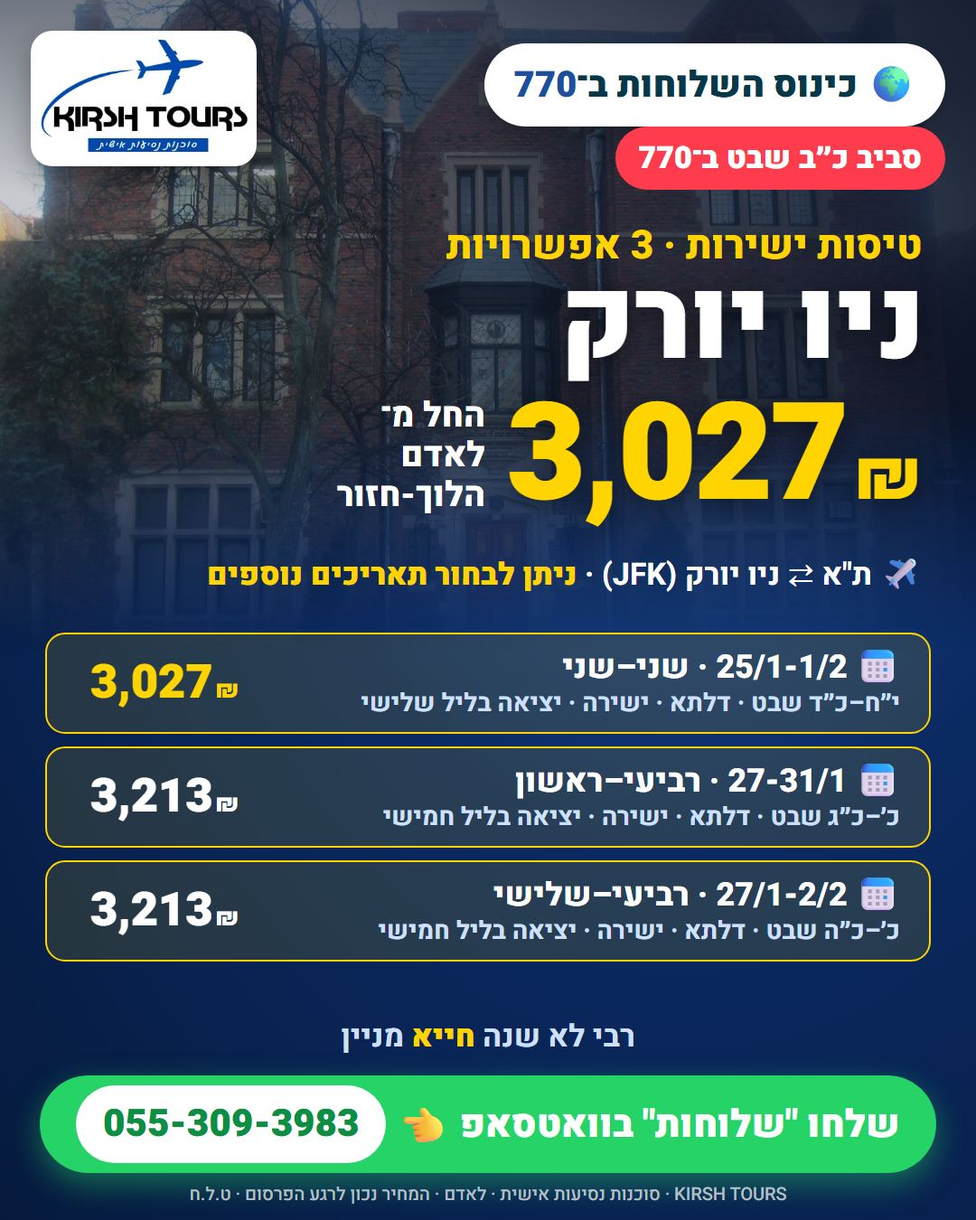
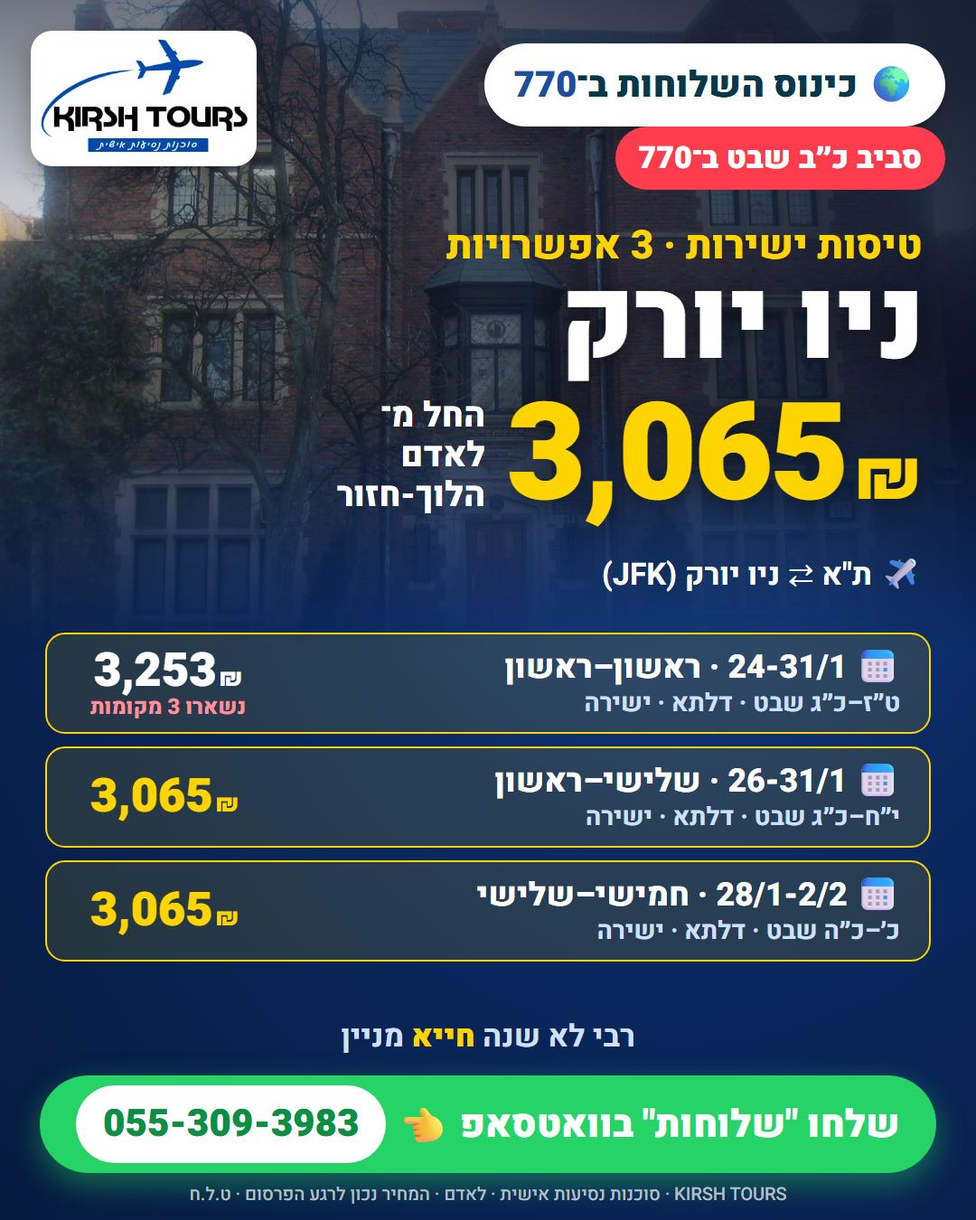
דילים 2026-11-26

diff --git a/770/kinus-shluchos/index.html b/770/kinus-shluchos/index.html
@@ -4,17 +4,17 @@
 <meta charset="utf-8">
 <meta name="viewport" content="width=device-width, initial-scale=1">
 <title>כינוס השלוחות ב-770: טיסה ישירה לניו יורק החל מ-3,027 ₪ | Kirsh Tours</title>
-<meta name="description" content="טיסות לניו יורק לכינוס השלוחות ב-770: 25/1-1/2 דלתא 3,027 ₪, 25/1-1/2 ישראייר 3,630 ₪, 26-31/1 דלתא 3,027 ₪, 26/1-2/2 דלתא 3,027 ₪, 26-30/1 אל על 3,627 ₪, 26/1-2/2 אל על 3,826 ₪, 27/1-1/2 יונייטד 3,054 ₪, 27-31/1 דלתא 3,213 ₪, 27/1-2/2 דלתא 3,213 ₪, 27/1-1/2 ישראייר 3,584 ₪, 27-31/1 ישראייר 3,630 ₪, 28/1-1/2 דלתא 3,027 ₪, 28/1-1/2 ישראייר 3,584 ₪, 28/1-1/2 אל על 3,737 ₪. לאדם הלוך-חזור, עם ליווי אישי.">
+<meta name="description" content="טיסות לניו יורק לכינוס השלוחות ב-770: 24-31/1 דלתא 3,253 ₪, 25/1-1/2 דלתא 3,027 ₪, 25/1-1/2 ישראייר 3,630 ₪, 26/1-2/2 דלתא 3,027 ₪, 26-31/1 דלתא 3,065 ₪, 26-30/1 אל על 3,627 ₪, 26/1-2/2 אל על 3,826 ₪, 27/1-1/2 יונייטד 3,054 ₪, 27-31/1 דלתא 3,213 ₪, 27/1-2/2 דלתא 3,213 ₪, 27/1-1/2 ישראייר 3,584 ₪, 27-31/1 ישראייר 3,630 ₪, 28/1-1/2 דלתא 3,027 ₪, 28/1-2/2 דלתא 3,065 ₪, 28/1-1/2 ישראייר 3,584 ₪, 28/1-1/2 אל על 3,737 ₪. לאדם הלוך-חזור, עם ליווי אישי.">
 <meta property="og:type" content="website">
 <meta property="og:locale" content="he_IL">
 <meta property="og:site_name" content="Kirsh Tours">
 <meta property="og:title" content="כינוס השלוחות ב-770: טיסה ישירה לניו יורק החל מ-3,027 ₪ | Kirsh Tours">
-<meta property="og:description" content="טיסות לניו יורק לכינוס השלוחות ב-770: 25/1-1/2 דלתא 3,027 ₪, 25/1-1/2 ישראייר 3,630 ₪, 26-31/1 דלתא 3,027 ₪, 26/1-2/2 דלתא 3,027 ₪, 26-30/1 אל על 3,627 ₪, 26/1-2/2 אל על 3,826 ₪, 27/1-1/2 יונייטד 3,054 ₪, 27-31/1 דלתא 3,213 ₪, 27/1-2/2 דלתא 3,213 ₪, 27/1-1/2 ישראייר 3,584 ₪, 27-31/1 ישראייר 3,630 ₪, 28/1-1/2 דלתא 3,027 ₪, 28/1-1/2 ישראייר 3,584 ₪, 28/1-1/2 אל על 3,737 ₪. לאדם הלוך-חזור, עם ליווי אישי.">
+<meta property="og:description" content="טיסות לניו יורק לכינוס השלוחות ב-770: 24-31/1 דלתא 3,253 ₪, 25/1-1/2 דלתא 3,027 ₪, 25/1-1/2 ישראייר 3,630 ₪, 26/1-2/2 דלתא 3,027 ₪, 26-31/1 דלתא 3,065 ₪, 26-30/1 אל על 3,627 ₪, 26/1-2/2 אל על 3,826 ₪, 27/1-1/2 יונייטד 3,054 ₪, 27-31/1 דלתא 3,213 ₪, 27/1-2/2 דלתא 3,213 ₪, 27/1-1/2 ישראייר 3,584 ₪, 27-31/1 ישראייר 3,630 ₪, 28/1-1/2 דלתא 3,027 ₪, 28/1-2/2 דלתא 3,065 ₪, 28/1-1/2 ישראייר 3,584 ₪, 28/1-1/2 אל על 3,737 ₪. לאדם הלוך-חזור, עם ליווי אישי.">
 <meta property="og:url" content="https://kirshtours.co.il/770/kinus-shluchos/">
 <link rel="canonical" href="https://kirshtours.co.il/770/kinus-shluchos/">
 
 
-<meta property="og:image" content="https://kirshtours.co.il/770/img/og-kinus-shluchos.jpg?v=d4a11484"><meta property="og:image:width" content="1200"><meta property="og:image:height" content="630">
+<meta property="og:image" content="https://kirshtours.co.il/770/img/og-kinus-shluchos.jpg?v=647932dd"><meta property="og:image:width" content="1200"><meta property="og:image:height" content="630">
 <meta name="theme-color" content="#050f24">
 <link rel="icon" href="../../logo.jpg">
 <link rel="stylesheet" href="../../vendor/fonts.css">
@@ -36,7 +36,7 @@
   <a class="btn btn-line" href="https://wa.me/972553093983">דברו איתי</a>
 </div></header>
 <main id="main" tabindex="-1">
-<div data-exp="2026-12-08">
+<div data-exp="2026-12-10">
 <section class="p770-hero small">
   <div class="slides" aria-hidden="true"><img src="../../770/img/hero/1.jpg" srcset="../../770/img/hero/s-1.jpg 800w, ../../770/img/hero/1.jpg 1600w" sizes="100vw" alt="" class="on" fetchpriority="high"><img data-src="../../770/img/hero/2.jpg" data-srcset="../../770/img/hero/s-2.jpg 800w, ../../770/img/hero/2.jpg 1600w" sizes="100vw" alt=""><img data-src="../../770/img/hero/3.jpg" data-srcset="../../770/img/hero/s-3.jpg 800w, ../../770/img/hero/3.jpg 1600w" sizes="100vw" alt=""><img data-src="../../770/img/hero/4.jpg" data-srcset="../../770/img/hero/s-4.jpg 800w, ../../770/img/hero/4.jpg 1600w" sizes="100vw" alt=""><img data-src="../../770/img/hero/5.jpg" data-srcset="../../770/img/hero/s-5.jpg 800w, ../../770/img/hero/5.jpg 1600w" sizes="100vw" alt=""><img data-src="../../770/img/hero/6.jpg" data-srcset="../../770/img/hero/s-6.jpg 800w, ../../770/img/hero/6.jpg 1600w" sizes="100vw" alt=""></div>
   <div class="wrap">
@@ -47,10 +47,17 @@
 <div class="wrap deal-layout">
   <div>
     <div class="block"><div class="kicker" data-reveal><b>01</b> בוחרים תאריך</div>
-    <div class="dates"><div class="date best" data-o="2027-01-25" data-exp="2026-12-08" data-reveal>
-    <div class="when">25/1-1/2<span>שני–שני</span><span>י״ח–כ״ד שבט</span><span class="best-tag">הכי משתלם</span></div>
+    <div class="dates"><div class="date" data-o="2027-01-24" data-exp="2026-12-10" data-reveal>
+    <div class="when">24-31/1<span>ראשון–ראשון</span><span>ט״ז–כ״ג שבט</span><span class="seats770 best-tag" data-checked="2026-11-26T12:36:10.195Z" hidden>נשארו 3 מקומות</span></div>
+    <div class="p">3,253 ₪<small>לאדם · הלוך-חזור</small></div>
+    <div class="fl"><b>דלתא</b> · ישירה · JFK · מזוודה 23 ק"ג<span class="rowfresh" data-checked="2026-11-26T12:36:10.195Z"></span></div>
+    <div class="fl">הלוך: ראשון 24.1 · ט״ז שבט, 11:05 · נחיתה 16:53</div>
+    <div class="fl">חזור: ראשון 31.1 · כ״ג שבט, 15:25 · נחיתה בארץ שני 1.2, 08:50</div>
+  </div>
+<div class="date best" data-o="2027-01-25" data-exp="2026-12-08" data-reveal>
+    <div class="when">25/1-1/2<span>שני–שני</span><span>י״ח–כ״ד שבט</span><span class="best-tag">הכי משתלם</span><span class="best-tag board-tag">מחיר מ-24.11</span></div>
     <div class="p">3,027 ₪<small>לאדם · הלוך-חזור</small></div>
-    <div class="fl"><b>דלתא</b> · ישירה · JFK · מזוודה 23 ק"ג<span class="rowfresh" data-checked="2026-11-24T07:20:42.804Z"></span></div>
+    <div class="fl"><b>דלתא</b> · ישירה · JFK · מזוודה 23 ק"ג</div>
     <div class="fl">הלוך: שני 25.1 · י״ח שבט, 23:30 (ליל שלישי) · נחיתה שלישי 26.1, 05:07</div>
     <div class="fl">חזור: שני 1.2 · כ״ד שבט, 15:25 · נחיתה בארץ שלישי 2.2, 08:50</div>
   </div>
@@ -62,18 +69,18 @@
     <div class="fl">חזור: שני 1.2 · כ״ד שבט, 14:30 · נחיתה בארץ שלישי 2.2, 08:10</div>
   </div>
 <div class="date best" data-o="2027-01-26" data-exp="2026-12-06" data-reveal>
-    <div class="when">26-31/1<span>שלישי–ראשון</span><span>י״ח–כ״ג שבט</span><span class="best-tag">הכי משתלם</span><span class="best-tag board-tag">מחיר מ-22.11</span></div>
-    <div class="p">3,027 ₪<small>לאדם · הלוך-חזור</small></div>
-    <div class="fl"><b>דלתא</b> · ישירה · JFK · מזוודה 23 ק"ג</div>
-    <div class="fl">הלוך: שלישי 26.1 · י״ח שבט, 11:05 · נחיתה 16:53</div>
-    <div class="fl">חזור: ראשון 31.1 · כ״ג שבט, 15:25 · נחיתה בארץ שני 1.2, 08:50</div>
-  </div>
-<div class="date best" data-o="2027-01-26" data-exp="2026-12-06" data-reveal>
     <div class="when">26/1-2/2<span>שלישי–שלישי</span><span>י״ח–כ״ה שבט</span><span class="best-tag">הכי משתלם</span><span class="best-tag board-tag">מחיר מ-22.11</span></div>
     <div class="p">3,027 ₪<small>לאדם · הלוך-חזור</small></div>
     <div class="fl"><b>דלתא</b> · ישירה · JFK · מזוודה 23 ק"ג</div>
     <div class="fl">הלוך: שלישי 26.1 · י״ח שבט, 11:05 · נחיתה 16:53</div>
     <div class="fl">חזור: שלישי 2.2 · כ״ה שבט, 15:25 · נחיתה בארץ רביעי 3.2, 08:50</div>
+  </div>
+<div class="date" data-o="2027-01-26" data-exp="2026-12-10" data-reveal>
+    <div class="when">26-31/1<span>שלישי–ראשון</span><span>י״ח–כ״ג שבט</span></div>
+    <div class="p">3,065 ₪<small>לאדם · הלוך-חזור</small></div>
+    <div class="fl"><b>דלתא</b> · ישירה · JFK · מזוודה 23 ק"ג<span class="rowfresh" data-checked="2026-11-26T12:36:10.195Z"></span></div>
+    <div class="fl">הלוך: שלישי 26.1 · י״ח שבט, 11:05 · נחיתה 16:53</div>
+    <div class="fl">חזור: ראשון 31.1 · כ״ג שבט, 15:25 · נחיתה בארץ שני 1.2, 08:50</div>
   </div>
 <div class="date" data-o="2027-01-26" data-exp="2026-12-04" data-reveal>
     <div class="when">26-30/1<span>שלישי–שבת</span><span>י״ח–כ״ג שבט</span><span class="best-tag board-tag">מחיר מ-20.11</span><span class="seats770 best-tag" data-checked="2026-11-20T08:16:02.715Z" hidden>נשארו 5 מקומות</span></div>
@@ -97,16 +104,16 @@
     <div class="fl">חזור: שני 1.2 · כ״ד שבט, 15:55 · נחיתה בארץ שלישי 2.2, 09:20</div>
   </div>
 <div class="date" data-o="2027-01-27" data-exp="2026-12-08" data-reveal>
-    <div class="when">27-31/1<span>רביעי–ראשון</span><span>כ׳–כ״ג שבט</span></div>
+    <div class="when">27-31/1<span>רביעי–ראשון</span><span>כ׳–כ״ג שבט</span><span class="best-tag board-tag">מחיר מ-24.11</span></div>
     <div class="p">3,213 ₪<small>לאדם · הלוך-חזור</small></div>
-    <div class="fl"><b>דלתא</b> · ישירה · JFK · מזוודה 23 ק"ג<span class="rowfresh" data-checked="2026-11-24T07:20:42.804Z"></span></div>
+    <div class="fl"><b>דלתא</b> · ישירה · JFK · מזוודה 23 ק"ג</div>
     <div class="fl">הלוך: רביעי 27.1 · כ׳ שבט, 23:30 (ליל חמישי) · נחיתה חמישי 28.1, 05:07</div>
     <div class="fl">חזור: ראשון 31.1 · כ״ג שבט, 15:25 · נחיתה בארץ שני 1.2, 08:50</div>
   </div>
 <div class="date" data-o="2027-01-27" data-exp="2026-12-08" data-reveal>
-    <div class="when">27/1-2/2<span>רביעי–שלישי</span><span>כ׳–כ״ה שבט</span></div>
+    <div class="when">27/1-2/2<span>רביעי–שלישי</span><span>כ׳–כ״ה שבט</span><span class="best-tag board-tag">מחיר מ-24.11</span></div>
     <div class="p">3,213 ₪<small>לאדם · הלוך-חזור</small></div>
-    <div class="fl"><b>דלתא</b> · ישירה · JFK · מזוודה 23 ק"ג<span class="rowfresh" data-checked="2026-11-24T07:20:42.804Z"></span></div>
+    <div class="fl"><b>דלתא</b> · ישירה · JFK · מזוודה 23 ק"ג</div>
     <div class="fl">הלוך: רביעי 27.1 · כ׳ שבט, 23:30 (ליל חמישי) · נחיתה חמישי 28.1, 05:07</div>
     <div class="fl">חזור: שלישי 2.2 · כ״ה שבט, 15:25 · נחיתה בארץ רביעי 3.2, 08:50</div>
   </div>
@@ -131,6 +138,13 @@
     <div class="fl">הלוך: חמישי 28.1 · כ׳ שבט, 11:05 · נחיתה 16:53</div>
     <div class="fl">חזור: שני 1.2 · כ״ד שבט, 15:25 · נחיתה בארץ שלישי 2.2, 08:50</div>
   </div>
+<div class="date" data-o="2027-01-28" data-exp="2026-12-10" data-reveal>
+    <div class="when">28/1-2/2<span>חמישי–שלישי</span><span>כ׳–כ״ה שבט</span></div>
+    <div class="p">3,065 ₪<small>לאדם · הלוך-חזור</small></div>
+    <div class="fl"><b>דלתא</b> · ישירה · JFK · מזוודה 23 ק"ג<span class="rowfresh" data-checked="2026-11-26T12:36:10.195Z"></span></div>
+    <div class="fl">הלוך: חמישי 28.1 · כ׳ שבט, 11:05 · נחיתה 16:53</div>
+    <div class="fl">חזור: שלישי 2.2 · כ״ה שבט, 15:25 · נחיתה בארץ רביעי 3.2, 08:50</div>
+  </div>
 <div class="date" data-o="2027-01-28" data-exp="2026-12-04" data-reveal>
     <div class="when">28/1-1/2<span>חמישי–שני</span><span>כ׳–כ״ד שבט</span><span class="best-tag board-tag">מחיר מ-20.11</span><span class="seats770 best-tag" data-checked="2026-11-20T08:16:02.715Z" hidden>נשארו 4 מקומות</span></div>
     <div class="p">3,584 ₪<small>לאדם · הלוך-חזור</small></div>
@@ -145,7 +159,7 @@
     <div class="fl">הלוך: חמישי 28.1 · כ׳ שבט, 11:05 · נחיתה 16:53</div>
     <div class="fl">חזור: שני 1.2 · כ״ד שבט, 00:35 (ליל שני) · נחיתה בארץ 17:50</div>
   </div></div>
-    <p class="fine" data-reveal>אפשר לבחור גם תאריכים אחרים סביב המועד. כתבו לי.</p>
+    
     <ul class="feats">
       <li data-reveal>המחיר לאדם, הלוך-חזור, בשקלים</li>
       <li data-reveal>ליווי אישי לפני הטיסה ובמהלכה</li>
@@ -156,7 +170,7 @@
     <div class="alert-box" data-reveal><b>רוצים לשמוע ראשונים על מחיר חדש לכינוס השלוחות?</b><p>שלחו לי הודעה, ואעדכן אתכם כשיש מחיר חדש או תאריך נוסף לכינוס השלוחות ב־770.</p><a class="btn btn-dark" data-ev="תעדכן" href="https://wa.me/972553093983?text=%D7%94%D7%99%D7%99%20%D7%97%D7%99%D7%99%D7%9D%2C%20%D7%AA%D7%A2%D7%93%D7%9B%D7%9F%20%D7%90%D7%95%D7%AA%D7%99%20%D7%9B%D7%A9%D7%99%D7%A9%20%D7%9E%D7%97%D7%99%D7%A8%20%D7%97%D7%93%D7%A9%20%D7%9C%D7%98%D7%99%D7%A1%D7%94%20%D7%9C-770%20%D7%9C%D7%9B%D7%99%D7%A0%D7%95%D7%A1%20%D7%94%D7%A9%D7%9C%D7%95%D7%97%D7%95%D7%AA"><svg viewBox="0 0 24 24" aria-hidden="true"><path d="M12 2a10 10 0 0 0-8.6 15.1L2 22l5-1.3A10 10 0 1 0 12 2zm0 18.2a8.2 8.2 0 0 1-4.2-1.2l-.3-.2-3 .8.8-2.9-.2-.3A8.2 8.2 0 1 1 12 20.2zm4.5-6.1c-.2-.1-1.5-.7-1.7-.8-.2-.1-.4-.1-.6.1l-.8 1c-.1.2-.3.2-.5.1a6.7 6.7 0 0 1-3.3-2.9c-.2-.4.2-.4.7-1.3.1-.2 0-.3 0-.4l-.8-1.8c-.2-.5-.4-.4-.6-.4h-.5a1 1 0 0 0-.7.3 3 3 0 0 0-.9 2.2 5.2 5.2 0 0 0 1.1 2.8 11.9 11.9 0 0 0 4.6 4c1.7.7 2.4.8 3.2.7.5-.1 1.5-.6 1.7-1.2.2-.6.2-1.1.2-1.2-.1-.1-.3-.2-.5-.3z"/></svg>תעדכן אותי</a></div>
     
     <div class="block"><div class="kicker" data-reveal><b>02</b> עוד מועדים</div><ul class="more770"><li data-reveal><a href="../hanukkah/">חנוכה ב־770<span>החל מ-3,040 ₪</span></a></li><li data-reveal><a href="../yud-shvat/">י׳ שבט ב־770<span>החל מ-3,061 ₪</span></a></li><li data-reveal><a href="../purim/">פורים ב־770<span>החל מ-3,181 ₪</span></a></li><li data-reveal><a href="../yud-alef-nissan/">י״א ניסן ב־770<span>החל מ-4,441 ₪</span></a></li><li data-reveal><a href="../pesach/">פסח ב־770<span>החל מ-4,309 ₪</span></a></li><li data-reveal><a href="../beis-iyar/">ב׳ אייר ב־770<span>החל מ-3,389 ₪</span></a></li><li data-reveal><a href="../yud-gimmel-iyar/">י״ג אייר ב־770<span>החל מ-3,568 ₪</span></a></li><li data-reveal><a href="../lag-baomer/">ל״ג בעומר ב־770<span>החל מ-3,788 ₪</span></a></li><li data-reveal><a href="../shavuot/">שבועות ב־770<span>החל מ-4,610 ₪</span></a></li><li data-reveal><a href="../gimmel-tammuz/">ג׳ תמוז ב־770<span>החל מ-4,102 ₪</span></a></li><li data-reveal><a href="../yud-beis-tammuz/">י״ב-י״ג תמוז ב־770<span>החל מ-3,602 ₪</span></a></li><li data-reveal><a href="../tes-vav-elul/">ט״ו אלול ב־770<span>החל מ-3,822 ₪</span></a></li><li data-reveal><a href="../chai-elul/">ח״י אלול ב־770<span>החל מ-3,822 ₪</span></a></li><li data-reveal><a href="../tishrei/">תשרי תשפ״ח ב־770<span>החל מ-3,389 ₪</span></a></li></ul></div>
-    <p class="fine">Kirsh Tours · סוכנות נסיעות אישית. פורסם ב-24.11. המחיר נכון לרגע הפרסום ובכפוף לזמינות · ט.ל.ח</p>
+    <p class="fine">Kirsh Tours · סוכנות נסיעות אישית. פורסם ב-26.11. המחיר נכון לרגע הפרסום ובכפוף לזמינות · ט.ל.ח</p>
     </div>
   </div>
   <aside class="side" data-reveal style="--d:.2s"><div class="book">
@@ -166,12 +180,13 @@
     <a class="wa-alt" href="https://chat.whatsapp.com/BcfctsrvwkJ3zMRZy6gM3L">להצטרף לקבוצת "טסים חכם ל-770"</a>
     <ul class="perks"><li>המקומות במחיר הזה מוגבלים</li></ul>
     <a class="wa-alt" href="../#groups">טסים כקבוצה או משפחה? לבקשת הצעה</a>
-    <a class="share" href="https://wa.me/?text=%D7%9B%D7%99%D7%A0%D7%95%D7%A1%20%D7%94%D7%A9%D7%9C%D7%95%D7%97%D7%95%D7%AA%20%D7%91-770%20-%20%D7%98%D7%99%D7%A1%D7%94%20%D7%9C%D7%A0%D7%99%D7%95%20%D7%99%D7%95%D7%A8%D7%A7%20%D7%94%D7%97%D7%9C%20%D7%9E-3%2C027%20%E2%82%AA%20%D7%9C%D7%90%D7%93%D7%9D%20%D7%94%D7%9C%D7%95%D7%9A-%D7%97%D7%96%D7%95%D7%A8%0A%0A25%2F1-1%2F2%20(%D7%99%D7%B4%D7%97%E2%80%93%D7%9B%D7%B4%D7%93%20%D7%A9%D7%91%D7%98)%20%C2%B7%20%D7%93%D7%9C%D7%AA%D7%90%20%C2%B7%20%D7%99%D7%A9%D7%99%D7%A8%D7%94%20%C2%B7%203%2C027%20%E2%82%AA%0A25%2F1-1%2F2%20(%D7%99%D7%B4%D7%96%E2%80%93%D7%9B%D7%B4%D7%93%20%D7%A9%D7%91%D7%98)%20%C2%B7%20%D7%99%D7%A9%D7%A8%D7%90%D7%99%D7%99%D7%A8%20%C2%B7%20%D7%99%D7%A9%D7%99%D7%A8%D7%94%20%C2%B7%203%2C630%20%E2%82%AA%0A26-31%2F1%20(%D7%99%D7%B4%D7%97%E2%80%93%D7%9B%D7%B4%D7%92%20%D7%A9%D7%91%D7%98)%20%C2%B7%20%D7%93%D7%9C%D7%AA%D7%90%20%C2%B7%20%D7%99%D7%A9%D7%99%D7%A8%D7%94%20%C2%B7%203%2C027%20%E2%82%AA%0A26%2F1-2%2F2%20(%D7%99%D7%B4%D7%97%E2%80%93%D7%9B%D7%B4%D7%94%20%D7%A9%D7%91%D7%98)%20%C2%B7%20%D7%93%D7%9C%D7%AA%D7%90%20%C2%B7%20%D7%99%D7%A9%D7%99%D7%A8%D7%94%20%C2%B7%203%2C027%20%E2%82%AA%0A26-30%2F1%20(%D7%99%D7%B4%D7%97%E2%80%93%D7%9B%D7%B4%D7%92%20%D7%A9%D7%91%D7%98)%20%C2%B7%20%D7%90%D7%9C%20%D7%A2%D7%9C%20%C2%B7%20%D7%99%D7%A9%D7%99%D7%A8%D7%94%20%C2%B7%203%2C627%20%E2%82%AA%0A26%2F1-2%2F2%20(%D7%99%D7%B4%D7%97%E2%80%93%D7%9B%D7%B4%D7%94%20%D7%A9%D7%91%D7%98)%20%C2%B7%20%D7%90%D7%9C%20%D7%A2%D7%9C%20%C2%B7%20%D7%99%D7%A9%D7%99%D7%A8%D7%94%20%C2%B7%203%2C826%20%E2%82%AA%0A27%2F1-1%2F2%20(%D7%99%D7%B4%D7%98%E2%80%93%D7%9B%D7%B4%D7%93%20%D7%A9%D7%91%D7%98)%20%C2%B7%20%D7%99%D7%95%D7%A0%D7%99%D7%99%D7%98%D7%93%20%C2%B7%20%D7%99%D7%A9%D7%99%D7%A8%D7%94%20%C2%B7%203%2C054%20%E2%82%AA%0A27-31%2F1%20(%D7%9B%D7%B3%E2%80%93%D7%9B%D7%B4%D7%92%20%D7%A9%D7%91%D7%98)%20%C2%B7%20%D7%93%D7%9C%D7%AA%D7%90%20%C2%B7%20%D7%99%D7%A9%D7%99%D7%A8%D7%94%20%C2%B7%203%2C213%20%E2%82%AA%0A27%2F1-2%2F2%20(%D7%9B%D7%B3%E2%80%93%D7%9B%D7%B4%D7%94%20%D7%A9%D7%91%D7%98)%20%C2%B7%20%D7%93%D7%9C%D7%AA%D7%90%20%C2%B7%20%D7%99%D7%A9%D7%99%D7%A8%D7%94%20%C2%B7%203%2C213%20%E2%82%AA%0A27%2F1-1%2F2%20(%D7%99%D7%B4%D7%98%E2%80%93%D7%9B%D7%B4%D7%93%20%D7%A9%D7%91%D7%98)%20%C2%B7%20%D7%99%D7%A9%D7%A8%D7%90%D7%99%D7%99%D7%A8%20%C2%B7%20%D7%99%D7%A9%D7%99%D7%A8%D7%94%20%C2%B7%203%2C584%20%E2%82%AA%0A27-31%2F1%20(%D7%99%D7%B4%D7%98%E2%80%93%D7%9B%D7%B4%D7%92%20%D7%A9%D7%91%D7%98)%20%C2%B7%20%D7%99%D7%A9%D7%A8%D7%90%D7%99%D7%99%D7%A8%20%C2%B7%20%D7%99%D7%A9%D7%99%D7%A8%D7%94%20%C2%B7%203%2C630%20%E2%82%AA%0A28%2F1-1%2F2%20(%D7%9B%D7%B3%E2%80%93%D7%9B%D7%B4%D7%93%20%D7%A9%D7%91%D7%98)%20%C2%B7%20%D7%93%D7%9C%D7%AA%D7%90%20%C2%B7%20%D7%99%D7%A9%D7%99%D7%A8%D7%94%20%C2%B7%203%2C027%20%E2%82%AA%0A28%2F1-1%2F2%20(%D7%9B%D7%B3%E2%80%93%D7%9B%D7%B4%D7%93%20%D7%A9%D7%91%D7%98)%20%C2%B7%20%D7%99%D7%A9%D7%A8%D7%90%D7%99%D7%99%D7%A8%20%C2%B7%20%D7%99%D7%A9%D7%99%D7%A8%D7%94%20%C2%B7%203%2C584%20%E2%82%AA%0A28%2F1-1%2F2%20(%D7%9B%D7%B3%E2%80%93%D7%9B%D7%B4%D7%93%20%D7%A9%D7%91%D7%98)%20%C2%B7%20%D7%90%D7%9C%20%D7%A2%D7%9C%20%C2%B7%20%D7%99%D7%A9%D7%99%D7%A8%D7%94%20%C2%B7%203%2C737%20%E2%82%AA%0A%0A%D7%9B%D7%9C%20%D7%94%D7%A4%D7%A8%D7%98%D7%99%D7%9D%20%D7%91%D7%90%D7%AA%D7%A8%3A%0Ahttps%3A%2F%2Fkirshtours.co.il%2F770%2Fkinus-shluchos%2F%0A%0A%D7%A8%D7%95%D7%A6%D7%99%D7%9D%20%D7%9C%D7%A7%D7%91%D7%9C%20%D7%A8%D7%90%D7%A9%D7%95%D7%A0%D7%99%D7%9D%20%D7%9C%D7%A0%D7%99%D7%99%D7%93%20%D7%90%D7%AA%20%D7%94%D7%98%D7%99%D7%A1%D7%95%D7%AA%20%D7%94%D7%9E%D7%A9%D7%AA%D7%9C%D7%9E%D7%95%D7%AA%20%D7%91%D7%99%D7%95%D7%AA%D7%A8%20%D7%9C-770%3F%20%D7%94%D7%A6%D7%98%D7%A8%D7%A4%D7%95%20%D7%9C%D7%A7%D7%91%D7%95%D7%A6%D7%AA%20%22%D7%98%D7%A1%D7%99%D7%9D%20%D7%97%D7%9B%D7%9D%20%D7%9C-770%22%3A%0Ahttps%3A%2F%2Fchat.whatsapp.com%2FBcfctsrvwkJ3zMRZy6gM3L" data-share="כינוס השלוחות ב-770 - טיסה לניו יורק החל מ-3,027 ₪ לאדם הלוך-חזור
+    <a class="share" href="https://wa.me/?text=%D7%9B%D7%99%D7%A0%D7%95%D7%A1%20%D7%94%D7%A9%D7%9C%D7%95%D7%97%D7%95%D7%AA%20%D7%91-770%20-%20%D7%98%D7%99%D7%A1%D7%94%20%D7%9C%D7%A0%D7%99%D7%95%20%D7%99%D7%95%D7%A8%D7%A7%20%D7%94%D7%97%D7%9C%20%D7%9E-3%2C027%20%E2%82%AA%20%D7%9C%D7%90%D7%93%D7%9D%20%D7%94%D7%9C%D7%95%D7%9A-%D7%97%D7%96%D7%95%D7%A8%0A%0A24-31%2F1%20(%D7%98%D7%B4%D7%96%E2%80%93%D7%9B%D7%B4%D7%92%20%D7%A9%D7%91%D7%98)%20%C2%B7%20%D7%93%D7%9C%D7%AA%D7%90%20%C2%B7%20%D7%99%D7%A9%D7%99%D7%A8%D7%94%20%C2%B7%203%2C253%20%E2%82%AA%0A25%2F1-1%2F2%20(%D7%99%D7%B4%D7%97%E2%80%93%D7%9B%D7%B4%D7%93%20%D7%A9%D7%91%D7%98)%20%C2%B7%20%D7%93%D7%9C%D7%AA%D7%90%20%C2%B7%20%D7%99%D7%A9%D7%99%D7%A8%D7%94%20%C2%B7%203%2C027%20%E2%82%AA%0A25%2F1-1%2F2%20(%D7%99%D7%B4%D7%96%E2%80%93%D7%9B%D7%B4%D7%93%20%D7%A9%D7%91%D7%98)%20%C2%B7%20%D7%99%D7%A9%D7%A8%D7%90%D7%99%D7%99%D7%A8%20%C2%B7%20%D7%99%D7%A9%D7%99%D7%A8%D7%94%20%C2%B7%203%2C630%20%E2%82%AA%0A26%2F1-2%2F2%20(%D7%99%D7%B4%D7%97%E2%80%93%D7%9B%D7%B4%D7%94%20%D7%A9%D7%91%D7%98)%20%C2%B7%20%D7%93%D7%9C%D7%AA%D7%90%20%C2%B7%20%D7%99%D7%A9%D7%99%D7%A8%D7%94%20%C2%B7%203%2C027%20%E2%82%AA%0A26-31%2F1%20(%D7%99%D7%B4%D7%97%E2%80%93%D7%9B%D7%B4%D7%92%20%D7%A9%D7%91%D7%98)%20%C2%B7%20%D7%93%D7%9C%D7%AA%D7%90%20%C2%B7%20%D7%99%D7%A9%D7%99%D7%A8%D7%94%20%C2%B7%203%2C065%20%E2%82%AA%0A26-30%2F1%20(%D7%99%D7%B4%D7%97%E2%80%93%D7%9B%D7%B4%D7%92%20%D7%A9%D7%91%D7%98)%20%C2%B7%20%D7%90%D7%9C%20%D7%A2%D7%9C%20%C2%B7%20%D7%99%D7%A9%D7%99%D7%A8%D7%94%20%C2%B7%203%2C627%20%E2%82%AA%0A26%2F1-2%2F2%20(%D7%99%D7%B4%D7%97%E2%80%93%D7%9B%D7%B4%D7%94%20%D7%A9%D7%91%D7%98)%20%C2%B7%20%D7%90%D7%9C%20%D7%A2%D7%9C%20%C2%B7%20%D7%99%D7%A9%D7%99%D7%A8%D7%94%20%C2%B7%203%2C826%20%E2%82%AA%0A27%2F1-1%2F2%20(%D7%99%D7%B4%D7%98%E2%80%93%D7%9B%D7%B4%D7%93%20%D7%A9%D7%91%D7%98)%20%C2%B7%20%D7%99%D7%95%D7%A0%D7%99%D7%99%D7%98%D7%93%20%C2%B7%20%D7%99%D7%A9%D7%99%D7%A8%D7%94%20%C2%B7%203%2C054%20%E2%82%AA%0A27-31%2F1%20(%D7%9B%D7%B3%E2%80%93%D7%9B%D7%B4%D7%92%20%D7%A9%D7%91%D7%98)%20%C2%B7%20%D7%93%D7%9C%D7%AA%D7%90%20%C2%B7%20%D7%99%D7%A9%D7%99%D7%A8%D7%94%20%C2%B7%203%2C213%20%E2%82%AA%0A27%2F1-2%2F2%20(%D7%9B%D7%B3%E2%80%93%D7%9B%D7%B4%D7%94%20%D7%A9%D7%91%D7%98)%20%C2%B7%20%D7%93%D7%9C%D7%AA%D7%90%20%C2%B7%20%D7%99%D7%A9%D7%99%D7%A8%D7%94%20%C2%B7%203%2C213%20%E2%82%AA%0A27%2F1-1%2F2%20(%D7%99%D7%B4%D7%98%E2%80%93%D7%9B%D7%B4%D7%93%20%D7%A9%D7%91%D7%98)%20%C2%B7%20%D7%99%D7%A9%D7%A8%D7%90%D7%99%D7%99%D7%A8%20%C2%B7%20%D7%99%D7%A9%D7%99%D7%A8%D7%94%20%C2%B7%203%2C584%20%E2%82%AA%0A27-31%2F1%20(%D7%99%D7%B4%D7%98%E2%80%93%D7%9B%D7%B4%D7%92%20%D7%A9%D7%91%D7%98)%20%C2%B7%20%D7%99%D7%A9%D7%A8%D7%90%D7%99%D7%99%D7%A8%20%C2%B7%20%D7%99%D7%A9%D7%99%D7%A8%D7%94%20%C2%B7%203%2C630%20%E2%82%AA%0A28%2F1-1%2F2%20(%D7%9B%D7%B3%E2%80%93%D7%9B%D7%B4%D7%93%20%D7%A9%D7%91%D7%98)%20%C2%B7%20%D7%93%D7%9C%D7%AA%D7%90%20%C2%B7%20%D7%99%D7%A9%D7%99%D7%A8%D7%94%20%C2%B7%203%2C027%20%E2%82%AA%0A28%2F1-2%2F2%20(%D7%9B%D7%B3%E2%80%93%D7%9B%D7%B4%D7%94%20%D7%A9%D7%91%D7%98)%20%C2%B7%20%D7%93%D7%9C%D7%AA%D7%90%20%C2%B7%20%D7%99%D7%A9%D7%99%D7%A8%D7%94%20%C2%B7%203%2C065%20%E2%82%AA%0A28%2F1-1%2F2%20(%D7%9B%D7%B3%E2%80%93%D7%9B%D7%B4%D7%93%20%D7%A9%D7%91%D7%98)%20%C2%B7%20%D7%99%D7%A9%D7%A8%D7%90%D7%99%D7%99%D7%A8%20%C2%B7%20%D7%99%D7%A9%D7%99%D7%A8%D7%94%20%C2%B7%203%2C584%20%E2%82%AA%0A28%2F1-1%2F2%20(%D7%9B%D7%B3%E2%80%93%D7%9B%D7%B4%D7%93%20%D7%A9%D7%91%D7%98)%20%C2%B7%20%D7%90%D7%9C%20%D7%A2%D7%9C%20%C2%B7%20%D7%99%D7%A9%D7%99%D7%A8%D7%94%20%C2%B7%203%2C737%20%E2%82%AA%0A%0A%D7%9B%D7%9C%20%D7%94%D7%A4%D7%A8%D7%98%D7%99%D7%9D%20%D7%91%D7%90%D7%AA%D7%A8%3A%0Ahttps%3A%2F%2Fkirshtours.co.il%2F770%2Fkinus-shluchos%2F%0A%0A%D7%A8%D7%95%D7%A6%D7%99%D7%9D%20%D7%9C%D7%A7%D7%91%D7%9C%20%D7%A8%D7%90%D7%A9%D7%95%D7%A0%D7%99%D7%9D%20%D7%9C%D7%A0%D7%99%D7%99%D7%93%20%D7%90%D7%AA%20%D7%94%D7%98%D7%99%D7%A1%D7%95%D7%AA%20%D7%94%D7%9E%D7%A9%D7%AA%D7%9C%D7%9E%D7%95%D7%AA%20%D7%91%D7%99%D7%95%D7%AA%D7%A8%20%D7%9C-770%3F%20%D7%94%D7%A6%D7%98%D7%A8%D7%A4%D7%95%20%D7%9C%D7%A7%D7%91%D7%95%D7%A6%D7%AA%20%22%D7%98%D7%A1%D7%99%D7%9D%20%D7%97%D7%9B%D7%9D%20%D7%9C-770%22%3A%0Ahttps%3A%2F%2Fchat.whatsapp.com%2FBcfctsrvwkJ3zMRZy6gM3L" data-share="כינוס השלוחות ב-770 - טיסה לניו יורק החל מ-3,027 ₪ לאדם הלוך-חזור
 
+24-31/1 (ט״ז–כ״ג שבט) · דלתא · ישירה · 3,253 ₪
 25/1-1/2 (י״ח–כ״ד שבט) · דלתא · ישירה · 3,027 ₪
 25/1-1/2 (י״ז–כ״ד שבט) · ישראייר · ישירה · 3,630 ₪
-26-31/1 (י״ח–כ״ג שבט) · דלתא · ישירה · 3,027 ₪
 26/1-2/2 (י״ח–כ״ה שבט) · דלתא · ישירה · 3,027 ₪
+26-31/1 (י״ח–כ״ג שבט) · דלתא · ישירה · 3,065 ₪
 26-30/1 (י״ח–כ״ג שבט) · אל על · ישירה · 3,627 ₪
 26/1-2/2 (י״ח–כ״ה שבט) · אל על · ישירה · 3,826 ₪
 27/1-1/2 (י״ט–כ״ד שבט) · יונייטד · ישירה · 3,054 ₪
@@ -180,6 +195,7 @@
 27/1-1/2 (י״ט–כ״ד שבט) · ישראייר · ישירה · 3,584 ₪
 27-31/1 (י״ט–כ״ג שבט) · ישראייר · ישירה · 3,630 ₪
 28/1-1/2 (כ׳–כ״ד שבט) · דלתא · ישירה · 3,027 ₪
+28/1-2/2 (כ׳–כ״ה שבט) · דלתא · ישירה · 3,065 ₪
 28/1-1/2 (כ׳–כ״ד שבט) · ישראייר · ישירה · 3,584 ₪
 28/1-1/2 (כ׳–כ״ד שבט) · אל על · ישירה · 3,737 ₪
 

diff --git a/770/index.html b/770/index.html
@@ -80,11 +80,11 @@
     <ul><li data-exp="2026-12-09" data-direct="1" data-stay="l" data-price="3061" data-checked="2026-11-25T15:31:52.331Z"><span>11-19/1 · שני–שלישי<small>ג׳–י״א שבט · יונייטד · ישירה<span class="rowfresh" data-checked="2026-11-25T15:31:52.331Z"></span><span class="seats770" data-checked="2026-11-25T15:31:52.331Z" hidden> · נשארו 8 מקומות</span></small></span><b>3,061 ₪</b></li><li data-exp="2026-12-09" data-direct="1" data-stay="m" data-price="3061" data-checked="2026-11-25T15:31:52.331Z"><span>12-19/1 · שלישי–שלישי<small>ד׳–י״א שבט · יונייטד · ישירה<span class="rowfresh" data-checked="2026-11-25T15:31:52.331Z"></span><span class="seats770" data-checked="2026-11-25T15:31:52.331Z" hidden> · נשארו 7 מקומות</span></small></span><b>3,061 ₪</b></li><li data-exp="2026-12-10" data-direct="1" data-stay="l" data-price="3093" data-checked="2026-11-26T07:24:54.901Z"><span>12-21/1 · שלישי–חמישי<small>ד׳–י״ג שבט · יונייטד · ישירה<span class="rowfresh" data-checked="2026-11-26T07:24:54.901Z"></span><span class="seats770" data-checked="2026-11-26T07:24:54.901Z" hidden> · נשארו 5 מקומות</span></small></span><b>3,093 ₪</b></li><li data-exp="2026-12-09" data-direct="1" data-stay="m" data-price="3061" data-checked="2026-11-25T15:31:52.331Z"><span>13-19/1 · רביעי–שלישי<small>ה׳–י״א שבט · יונייטד · ישירה<span class="rowfresh" data-checked="2026-11-25T15:31:52.331Z"></span></small></span><b>3,061 ₪</b></li><li data-exp="2026-12-10" data-direct="1" data-stay="l" data-price="3093" data-checked="2026-11-26T07:24:54.901Z"><span>13-21/1 · רביעי–חמישי<small>ה׳–י״ג שבט · יונייטד · ישירה<span class="rowfresh" data-checked="2026-11-26T07:24:54.901Z"></span></small></span><b>3,093 ₪</b></li><li data-exp="2026-12-09" data-direct="1" data-stay="s" data-price="3061" data-checked="2026-11-25T15:31:52.331Z"><span>14-18/1 · חמישי–שני<small>ו׳–י׳ שבט · יונייטד · ישירה<span class="rowfresh" data-checked="2026-11-25T15:31:52.331Z"></span></small></span><b>3,061 ₪</b></li><li data-exp="2026-12-10" data-direct="1" data-stay="m" data-price="3093" data-checked="2026-11-26T07:24:54.901Z"><span>14-19/1 · חמישי–שלישי<small>ו׳–י״א שבט · יונייטד · ישירה<span class="rowfresh" data-checked="2026-11-26T07:24:54.901Z"></span></small></span><b>3,093 ₪</b></li><li data-exp="2026-12-09" data-direct="1" data-stay="s" data-price="3971" data-checked="2026-11-25T15:31:52.331Z"><span>17-19/1 · ראשון–שלישי<small>ט׳–י״ב שבט · ארקיע · ישירה<span class="rowfresh" data-checked="2026-11-25T15:31:52.331Z"></span><span class="seats770" data-checked="2026-11-25T15:31:52.331Z" hidden> · נשארו 3 מקומות</span></small></span><b>3,971 ₪</b></li></ul>
     <span class="go">לשעות הטיסה ולפרטים <span class="arrow" aria-hidden="true">←</span></span>
   </a>
-<a class="e770" href="kinus-shluchos/" data-cur="ILS" data-exp="2026-12-08" data-mon="שבט" data-reveal>
+<a class="e770" href="kinus-shluchos/" data-cur="ILS" data-exp="2026-12-10" data-mon="שבט" data-reveal>
     <div class="ev">כינוס השלוחות ב־770</div><span class="count770" data-start="2027-01-30" data-end="2027-01-30" data-name="כינוס השלוחות" hidden></span>
     <p class="line">סביב כ״ב שבט ב־770</p>
     <div class="from"><span class="pre">החל מ-</span><b>3,027 ₪</b> לאדם הלוך-חזור</div><span class="fresh770" data-checked="2026-11-24T07:20:42.804Z" hidden></span>
-    <ul><li data-exp="2026-12-08" data-direct="1" data-stay="m" data-price="3027" data-checked="2026-11-24T07:20:42.804Z"><span>25/1-1/2 · שני–שני<small>י״ח–כ״ד שבט · דלתא · ישירה<span class="rowfresh" data-checked="2026-11-24T07:20:42.804Z"></span></small></span><b>3,027 ₪</b></li><li data-exp="2026-12-06" data-direct="1" data-stay="m" data-price="3630" data-checked="2026-11-22T14:39:23.945Z"><span>25/1-1/2 · שני–שני<small>י״ז–כ״ד שבט · ישראייר · ישירה<span class="rowfresh" data-checked="2026-11-22T14:39:23.945Z"></span><span class="seats770" data-checked="2026-11-22T14:39:23.945Z" hidden> · נשארו 4 מקומות</span></small></span><b>3,630 ₪</b></li><li data-exp="2026-12-06" data-direct="1" data-stay="m" data-price="3027" data-checked="2026-11-22T14:39:23.945Z"><span>26-31/1 · שלישי–ראשון<small>י״ח–כ״ג שבט · דלתא · ישירה<span class="rowfresh" data-checked="2026-11-22T14:39:23.945Z"></span></small></span><b>3,027 ₪</b></li><li data-exp="2026-12-06" data-direct="1" data-stay="m" data-price="3027" data-checked="2026-11-22T14:39:23.945Z"><span>26/1-2/2 · שלישי–שלישי<small>י״ח–כ״ה שבט · דלתא · ישירה<span class="rowfresh" data-checked="2026-11-22T14:39:23.945Z"></span></small></span><b>3,027 ₪</b></li><li data-exp="2026-12-04" data-direct="1" data-stay="s" data-price="3627" data-checked="2026-11-20T08:16:02.715Z"><span>26-30/1 · שלישי–שבת<small>י״ח–כ״ג שבט · אל על · ישירה<span class="rowfresh" data-checked="2026-11-20T08:16:02.715Z"></span><span class="seats770" data-checked="2026-11-20T08:16:02.715Z" hidden> · נשארו 5 מקומות</span></small></span><b>3,627 ₪</b></li><li data-exp="2026-12-04" data-direct="1" data-stay="m" data-price="3826" data-checked="2026-11-20T08:16:02.715Z"><span>26/1-2/2 · שלישי–שלישי<small>י״ח–כ״ה שבט · אל על · ישירה<span class="rowfresh" data-checked="2026-11-20T08:16:02.715Z"></span><span class="seats770" data-checked="2026-11-20T08:16:02.715Z" hidden> · נשארו 5 מקומות</span></small></span><b>3,826 ₪</b></li><li data-exp="2026-12-06" data-direct="1" data-stay="m" data-price="3054" data-checked="2026-11-22T14:39:23.945Z"><span>27/1-1/2 · רביעי–שני<small>י״ט–כ״ד שבט · יונייטד · ישירה<span class="rowfresh" data-checked="2026-11-22T14:39:23.945Z"></span></small></span><b>3,054 ₪</b></li><li data-exp="2026-12-08" data-direct="1" data-stay="s" data-price="3213" data-checked="2026-11-24T07:20:42.804Z"><span>27-31/1 · רביעי–ראשון<small>כ׳–כ״ג שבט · דלתא · ישירה<span class="rowfresh" data-checked="2026-11-24T07:20:42.804Z"></span></small></span><b>3,213 ₪</b></li><li data-exp="2026-12-08" data-direct="1" data-stay="m" data-price="3213" data-checked="2026-11-24T07:20:42.804Z"><span>27/1-2/2 · רביעי–שלישי<small>כ׳–כ״ה שבט · דלתא · ישירה<span class="rowfresh" data-checked="2026-11-24T07:20:42.804Z"></span></small></span><b>3,213 ₪</b></li><li data-exp="2026-12-04" data-direct="1" data-stay="m" data-price="3584" data-checked="2026-11-20T08:16:02.715Z"><span>27/1-1/2 · רביעי–שני<small>י״ט–כ״ד שבט · ישראייר · ישירה<span class="rowfresh" data-checked="2026-11-20T08:16:02.715Z"></span><span class="seats770" data-checked="2026-11-20T08:16:02.715Z" hidden> · נשארו 4 מקומות</span></small></span><b>3,584 ₪</b></li><li data-exp="2026-12-06" data-direct="1" data-stay="s" data-price="3630" data-checked="2026-11-22T14:39:23.945Z"><span>27-31/1 · רביעי–ראשון<small>י״ט–כ״ג שבט · ישראייר · ישירה<span class="rowfresh" data-checked="2026-11-22T14:39:23.945Z"></span><span class="seats770" data-checked="2026-11-22T14:39:23.945Z" hidden> · נשארו 4 מקומות</span></small></span><b>3,630 ₪</b></li><li data-exp="2026-12-06" data-direct="1" data-stay="s" data-price="3027" data-checked="2026-11-22T14:39:23.945Z"><span>28/1-1/2 · חמישי–שני<small>כ׳–כ״ד שבט · דלתא · ישירה<span class="rowfresh" data-checked="2026-11-22T14:39:23.945Z"></span></small></span><b>3,027 ₪</b></li><li data-exp="2026-12-04" data-direct="1" data-stay="s" data-price="3584" data-checked="2026-11-20T08:16:02.715Z"><span>28/1-1/2 · חמישי–שני<small>כ׳–כ״ד שבט · ישראייר · ישירה<span class="rowfresh" data-checked="2026-11-20T08:16:02.715Z"></span><span class="seats770" data-checked="2026-11-20T08:16:02.715Z" hidden> · נשארו 4 מקומות</span></small></span><b>3,584 ₪</b></li><li data-exp="2026-12-04" data-direct="1" data-stay="s" data-price="3737" data-checked="2026-11-20T08:16:02.715Z"><span>28/1-1/2 · חמישי–שני<small>כ׳–כ״ד שבט · אל על · ישירה<span class="rowfresh" data-checked="2026-11-20T08:16:02.715Z"></span><span class="seats770" data-checked="2026-11-20T08:16:02.715Z" hidden> · נשארו 2 מקומות</span></small></span><b>3,737 ₪</b></li></ul>
+    <ul><li data-exp="2026-12-10" data-direct="1" data-stay="m" data-price="3253" data-checked="2026-11-26T12:36:10.195Z"><span>24-31/1 · ראשון–ראשון<small>ט״ז–כ״ג שבט · דלתא · ישירה<span class="rowfresh" data-checked="2026-11-26T12:36:10.195Z"></span><span class="seats770" data-checked="2026-11-26T12:36:10.195Z" hidden> · נשארו 3 מקומות</span></small></span><b>3,253 ₪</b></li><li data-exp="2026-12-08" data-direct="1" data-stay="m" data-price="3027" data-checked="2026-11-24T07:20:42.804Z"><span>25/1-1/2 · שני–שני<small>י״ח–כ״ד שבט · דלתא · ישירה<span class="rowfresh" data-checked="2026-11-24T07:20:42.804Z"></span></small></span><b>3,027 ₪</b></li><li data-exp="2026-12-06" data-direct="1" data-stay="m" data-price="3630" data-checked="2026-11-22T14:39:23.945Z"><span>25/1-1/2 · שני–שני<small>י״ז–כ״ד שבט · ישראייר · ישירה<span class="rowfresh" data-checked="2026-11-22T14:39:23.945Z"></span><span class="seats770" data-checked="2026-11-22T14:39:23.945Z" hidden> · נשארו 4 מקומות</span></small></span><b>3,630 ₪</b></li><li data-exp="2026-12-06" data-direct="1" data-stay="m" data-price="3027" data-checked="2026-11-22T14:39:23.945Z"><span>26/1-2/2 · שלישי–שלישי<small>י״ח–כ״ה שבט · דלתא · ישירה<span class="rowfresh" data-checked="2026-11-22T14:39:23.945Z"></span></small></span><b>3,027 ₪</b></li><li data-exp="2026-12-10" data-direct="1" data-stay="m" data-price="3065" data-checked="2026-11-26T12:36:10.195Z"><span>26-31/1 · שלישי–ראשון<small>י״ח–כ״ג שבט · דלתא · ישירה<span class="rowfresh" data-checked="2026-11-26T12:36:10.195Z"></span></small></span><b>3,065 ₪</b></li><li data-exp="2026-12-04" data-direct="1" data-stay="s" data-price="3627" data-checked="2026-11-20T08:16:02.715Z"><span>26-30/1 · שלישי–שבת<small>י״ח–כ״ג שבט · אל על · ישירה<span class="rowfresh" data-checked="2026-11-20T08:16:02.715Z"></span><span class="seats770" data-checked="2026-11-20T08:16:02.715Z" hidden> · נשארו 5 מקומות</span></small></span><b>3,627 ₪</b></li><li data-exp="2026-12-04" data-direct="1" data-stay="m" data-price="3826" data-checked="2026-11-20T08:16:02.715Z"><span>26/1-2/2 · שלישי–שלישי<small>י״ח–כ״ה שבט · אל על · ישירה<span class="rowfresh" data-checked="2026-11-20T08:16:02.715Z"></span><span class="seats770" data-checked="2026-11-20T08:16:02.715Z" hidden> · נשארו 5 מקומות</span></small></span><b>3,826 ₪</b></li><li data-exp="2026-12-06" data-direct="1" data-stay="m" data-price="3054" data-checked="2026-11-22T14:39:23.945Z"><span>27/1-1/2 · רביעי–שני<small>י״ט–כ״ד שבט · יונייטד · ישירה<span class="rowfresh" data-checked="2026-11-22T14:39:23.945Z"></span></small></span><b>3,054 ₪</b></li><li data-exp="2026-12-08" data-direct="1" data-stay="s" data-price="3213" data-checked="2026-11-24T07:20:42.804Z"><span>27-31/1 · רביעי–ראשון<small>כ׳–כ״ג שבט · דלתא · ישירה<span class="rowfresh" data-checked="2026-11-24T07:20:42.804Z"></span></small></span><b>3,213 ₪</b></li><li data-exp="2026-12-08" data-direct="1" data-stay="m" data-price="3213" data-checked="2026-11-24T07:20:42.804Z"><span>27/1-2/2 · רביעי–שלישי<small>כ׳–כ״ה שבט · דלתא · ישירה<span class="rowfresh" data-checked="2026-11-24T07:20:42.804Z"></span></small></span><b>3,213 ₪</b></li><li data-exp="2026-12-04" data-direct="1" data-stay="m" data-price="3584" data-checked="2026-11-20T08:16:02.715Z"><span>27/1-1/2 · רביעי–שני<small>י״ט–כ״ד שבט · ישראייר · ישירה<span class="rowfresh" data-checked="2026-11-20T08:16:02.715Z"></span><span class="seats770" data-checked="2026-11-20T08:16:02.715Z" hidden> · נשארו 4 מקומות</span></small></span><b>3,584 ₪</b></li><li data-exp="2026-12-06" data-direct="1" data-stay="s" data-price="3630" data-checked="2026-11-22T14:39:23.945Z"><span>27-31/1 · רביעי–ראשון<small>י״ט–כ״ג שבט · ישראייר · ישירה<span class="rowfresh" data-checked="2026-11-22T14:39:23.945Z"></span><span class="seats770" data-checked="2026-11-22T14:39:23.945Z" hidden> · נשארו 4 מקומות</span></small></span><b>3,630 ₪</b></li><li data-exp="2026-12-06" data-direct="1" data-stay="s" data-price="3027" data-checked="2026-11-22T14:39:23.945Z"><span>28/1-1/2 · חמישי–שני<small>כ׳–כ״ד שבט · דלתא · ישירה<span class="rowfresh" data-checked="2026-11-22T14:39:23.945Z"></span></small></span><b>3,027 ₪</b></li><li data-exp="2026-12-10" data-direct="1" data-stay="m" data-price="3065" data-checked="2026-11-26T12:36:10.195Z"><span>28/1-2/2 · חמישי–שלישי<small>כ׳–כ״ה שבט · דלתא · ישירה<span class="rowfresh" data-checked="2026-11-26T12:36:10.195Z"></span></small></span><b>3,065 ₪</b></li><li data-exp="2026-12-04" data-direct="1" data-stay="s" data-price="3584" data-checked="2026-11-20T08:16:02.715Z"><span>28/1-1/2 · חמישי–שני<small>כ׳–כ״ד שבט · ישראייר · ישירה<span class="rowfresh" data-checked="2026-11-20T08:16:02.715Z"></span><span class="seats770" data-checked="2026-11-20T08:16:02.715Z" hidden> · נשארו 4 מקומות</span></small></span><b>3,584 ₪</b></li><li data-exp="2026-12-04" data-direct="1" data-stay="s" data-price="3737" data-checked="2026-11-20T08:16:02.715Z"><span>28/1-1/2 · חמישי–שני<small>כ׳–כ״ד שבט · אל על · ישירה<span class="rowfresh" data-checked="2026-11-20T08:16:02.715Z"></span><span class="seats770" data-checked="2026-11-20T08:16:02.715Z" hidden> · נשארו 2 מקומות</span></small></span><b>3,737 ₪</b></li></ul>
     <span class="go">לשעות הטיסה ולפרטים <span class="arrow" aria-hidden="true">←</span></span>
   </a>
 <a class="e770" href="purim/" data-cur="ILS" data-exp="2026-12-10" data-mon="אדר" data-reveal>
